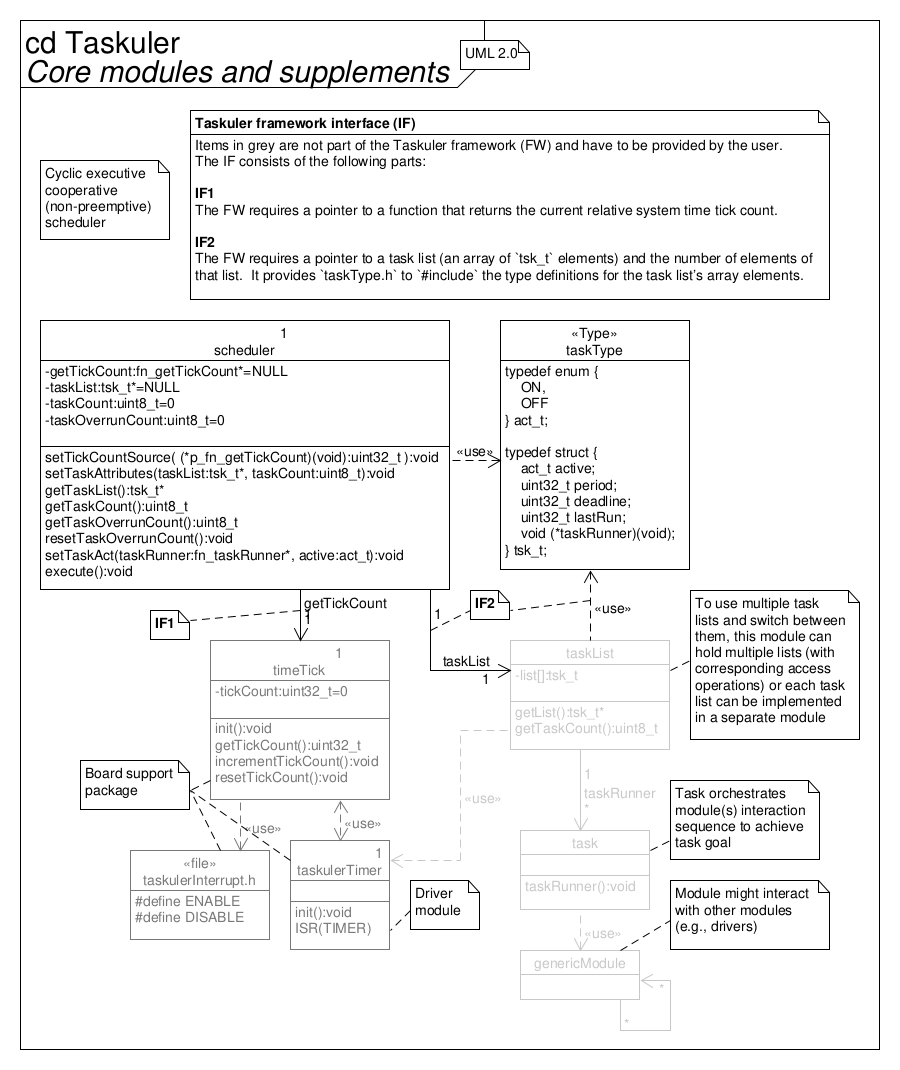
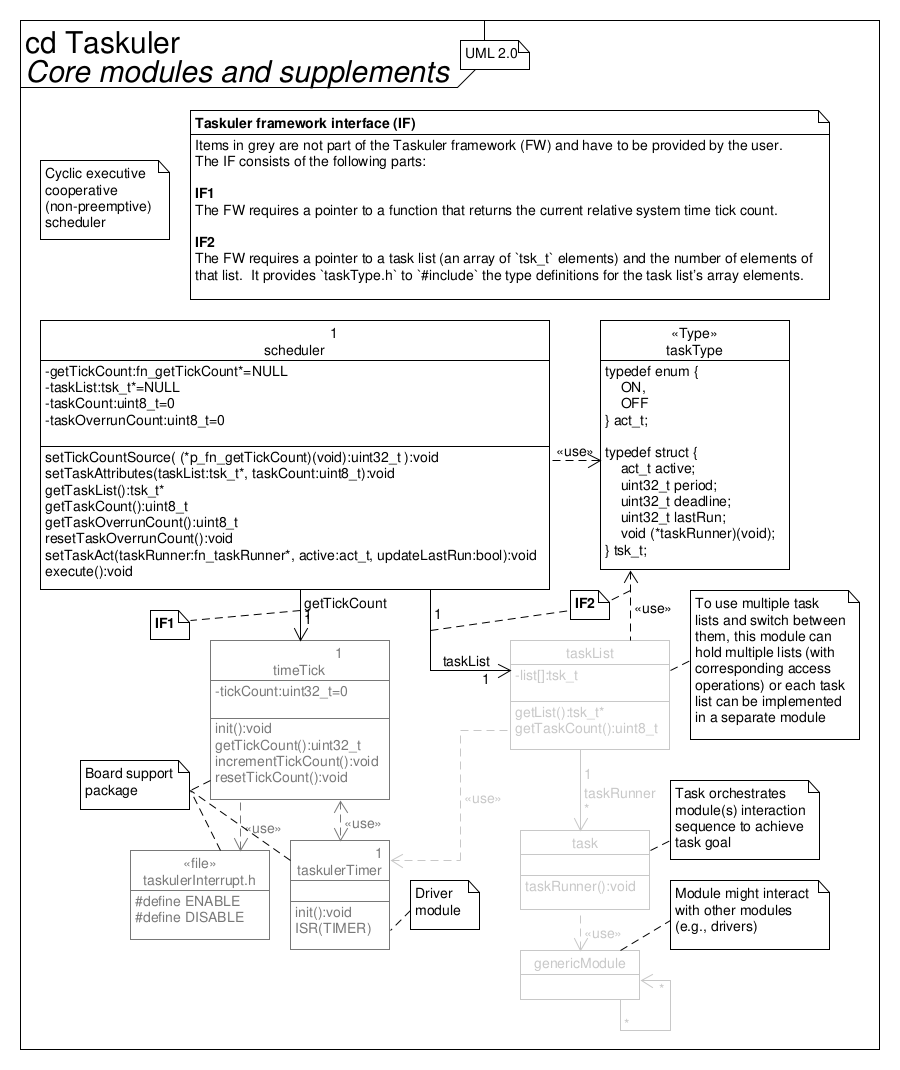
Document update last run functionality
... for task activation.

diff --git a/README.md b/README.md
@@ -1,4 +1,4 @@
-# Taskuler - Simple "Bare-Metal" Task Scheduling Framework
+# Taskuler - Simple "bare-metal" task scheduling framework
 
 This framework employs a simple and tiny
 
@@ -19,6 +19,8 @@ The following loosely lists requirements, constraints, features and goals.
 * Timing of tasks (via task lists) is predefined at compile time
 * Switch between multiple task lists at run time
 * Tasks within a task list can individually be enabled and disabled at run time
+* Timers can be created with one-shot tasks whos time stamp of last task run is
+  updated when enbling (starting) them
 * Each task can individually be scheduled by its period and its offset to other
   tasks
 * Task deadline overrun detection/indication with (single) counter
@@ -80,6 +82,14 @@ Quality metrics:
 | Cyclomatic complexity number (per func.)     | \<= 10   |
 | Comment rate (per file)                      | \>= 20 % |
 | Unit test (decision) coverage                | = 100 %  |
+
+## Using timers
+
+Timers can be created by using a one-shot task that deactives itself at the end
+of its execution).
+Its period then defines the timer’s timing.
+When enabling such a task (i.e., starting the timer), its time stamp of last
+task run must be updated.
 
 ## Architecture
 
